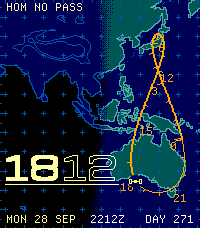
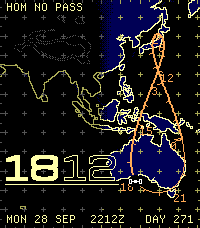
Eight more plates, listed like with like
Night Side, Infrared, Planetary, Moonlit, Vector, Graphite, Star Atlas
and Rodger Young: palettes only, on the treatments the watch already
has (day and night zones, the dot screen, airbrushed relief, height
tints), so neither app's code grows. They take the next numbers on the
watch; a chosen plate keeps its own.

The settings page and the study list plates in PLATE_ORDER: paper
charts, shaded relief, blue line drawings, tracking boards, mission
control's glass, single-ink displays, the Earth from space.

The core keeps 32 scenes, for the study's proof of every plate; a plate
of few inks may draw few colours.

diff --git a/src/plates.js b/src/plates.js
@@ -117,8 +117,79 @@ export const PLATES={
     water:inks(['#000000','#000000','#000000']),land:inks(['#000055','#000055','#000000']),coast:inks(['#55FFFF','#55AAAA','#005555']),
     contour:inks(['#005555','#005555','#005555']),shelf:inks(['#000055','#000055','#000055']),grid:inks(['#005555','#005555','#005555']),
     route:inks(['#FFFF55','#FFFF55','#FFFF55']),ink:inks(['#AAFFFF','#AAFFFF','#AAFFFF']),mark:inks(['#FFFFFF','#FFFFFF','#FFFFFF']),
-    space:hex('#000000'),spaceInk:hex('#FFAA55')}
+    space:hex('#000000'),spaceInk:hex('#FFAA55')},
+  // Space studies, after real imagery and the quieter end of film design;
+  // interpretations, not replicas.
+  // The Earth as photographed from orbit at night: by day a dim blue sea
+  // and teal land, at night both black with the coasts lit sodium gold, the
+  // limb of the dawn a thin blue line.
+  nightside:{name:'Night Side',note:'From orbit at night: dark Earth, coastlines lit gold',night:'zones',terminator:hex('#55AAFF'),
+    water:inks(['#000055','#000055','#000000']),land:inks(['#005555','#000055','#000000']),coast:inks(['#55AAAA','#FFAA55','#FFAA00']),
+    contour:inks(['#0055AA','#000055','#000055']),shelf:inks(['#0000AA','#000055','#000000']),grid:inks(['#0055AA','#000055','#000055']),
+    route:inks(['#FFFFFF','#FFFFFF','#FFFFFF']),ink:inks(['#FFFFFF','#FFFFFF','#FFFFAA']),mark:inks(['#FFFF55','#FFFF55','#FFFF55']),
+    space:hex('#000000'),spaceInk:hex('#FFFFFF')},
+  // The enhancement tables forecasters lay over infrared weather-satellite
+  // images: the land in a thermal ramp by height, violet lowland to pale
+  // yellow peaks, on a black sea; map lines in the imagery's cyan; night
+  // dims the ramp through a dark screen.
+  infrared:{name:'Infrared',note:'Weather-satellite infrared: a thermal ramp on a black sea',night:'screen',
+    tints:[[300,hex('#550055')],[1000,hex('#AA0055')],[2000,hex('#FF5500')],[3500,hex('#FFAA00')],[Infinity,hex('#FFFFAA')]],depths:[[SHELF_DEPTH,hex('#000055')],[-Infinity,hex('#000000')]],
+    water:inks(['#000000','#000000','#000000']),land:inks(['#550055','#550055','#550055']),coast:inks(['#55AAAA','#55AAAA','#55AAAA']),
+    contour:inks(['#000000','#000000','#000000']),shelf:inks(['#000055','#000055','#000055']),grid:inks(['#005555','#005555','#005555']),
+    route:inks(['#FFFFFF','#FFFFFF','#FFFFFF']),ink:inks(['#FFFFFF','#FFFFFF','#FFFFFF']),mark:inks(['#55FFFF','#55FFFF','#55FFFF']),
+    screen:hex('#000000'),space:hex('#000000'),spaceInk:hex('#55AAAA')},
+  // The airbrushed charts of the Moon and Mars from the Apollo and Viking
+  // years (USGS), drawn over the Earth: the land modelled in ochre and
+  // salmon by light from the northwest, the sea plain paper, a blue route.
+  planetary:{name:'Planetary',note:'USGS Mars and Moon charts: airbrushed ochre relief',night:'screen',shade:true,
+    tints:[[300,hex('#550000')],[500,hex('#AA5500')],[1000,hex('#FFAA55')],[2000,hex('#FFFFAA')],[Infinity,hex('#FFFFAA')]],
+    water:inks(['#FFFFFF','#FFFFFF','#FFFFFF']),land:inks(['#FFAA55','#FFAA55','#FFAA55']),coast:inks(['#AA5500','#AA5500','#AA5500']),
+    contour:inks(['#FFAA55','#FFAA55','#FFAA55']),shelf:inks(['#AAAAAA','#AAAAAA','#AAAAAA']),grid:inks(['#AA5500','#AA5500','#AA5500']),
+    route:inks(['#0055AA','#0055AA','#0055AA']),ink:inks(['#550000','#550000','#550000']),mark:inks(['#000000','#000000','#000000']),
+    screen:hex('#550000'),space:hex('#FFFFFF'),spaceInk:hex('#550000')},
+  // A vector display: no fills at all, the world as line work on black, the
+  // coast in one pale blue-white beam that dims at night.
+  vector:{name:'Vector',note:'Vector display: the world in line work alone',night:'zones',terminator:hex('#0055AA'),
+    water:inks(['#000000','#000000','#000000']),land:inks(['#000000','#000000','#000000']),coast:inks(['#AAFFFF','#55AAAA','#0055AA']),
+    contour:inks(['#0055AA','#005555','#000055']),shelf:inks(['#000055','#000055','#000000']),grid:inks(['#005555','#005555','#000055']),
+    route:inks(['#FFFFFF','#FFFFFF','#FFFFFF']),ink:inks(['#AAFFFF','#AAFFFF','#55AAAA']),mark:inks(['#FFFFFF','#FFFFFF','#FFFFFF']),
+    space:hex('#000000'),spaceInk:hex('#AAFFFF')},
+  // Spare grey instruments: charcoal land on black, everything in greys,
+  // the route the one white thing; night takes the land away.
+  graphite:{name:'Graphite',note:'Spare grey instruments: the route the one white line',night:'zones',
+    water:inks(['#000000','#000000','#000000']),land:inks(['#555555','#555555','#000000']),coast:inks(['#AAAAAA','#AAAAAA','#555555']),
+    contour:inks(['#000000','#000000','#555555']),shelf:inks(['#555555','#555555','#000000']),grid:inks(['#555555','#555555','#555555']),
+    route:inks(['#FFFFFF','#FFFFFF','#FFFFFF']),ink:inks(['#AAAAAA','#AAAAAA','#AAAAAA']),mark:inks(['#FFFFFF','#FFFFFF','#FFFFFF']),
+    space:hex('#000000'),spaceInk:hex('#AAAAAA')},
+  // The engraved star atlases navigators used: deep navy paper, cream
+  // coastlines, stippled contours, a pale gold route; night deepens the navy.
+  staratlas:{name:'Star Atlas',note:'Engraved star atlas: navy paper, cream line, gold route',night:'zones',dots:true,
+    water:inks(['#000000','#000000','#000000']),land:inks(['#000055','#000055','#000000']),coast:inks(['#FFFFAA','#FFFFAA','#AAAA55']),
+    contour:inks(['#AAAA55','#555555','#555555']),shelf:inks(['#000055','#000055','#000055']),grid:inks(['#AAAA55','#555555','#555555']),
+    route:inks(['#FFAA55','#FFAA55','#FFAA55']),ink:inks(['#FFFFAA','#FFFFAA','#FFFFAA']),mark:inks(['#FFFFFF','#FFFFFF','#FFFFFF']),
+    space:hex('#000055'),spaceInk:hex('#FFFFAA')},
+  // The airbrushed relief by moonlight: the land modelled in silver and
+  // slate from the northwest on a black sea, a lamp-amber route.
+  moonlit:{name:'Moonlit',note:'Shaded relief by moonlight: silver and slate on black',night:'screen',shade:true,
+    tints:[[300,hex('#000000')],[500,hex('#000055')],[1000,hex('#555555')],[2000,hex('#AAAAAA')],[Infinity,hex('#AAAAAA')]],
+    water:inks(['#000000','#000000','#000000']),land:inks(['#555555','#555555','#555555']),coast:inks(['#AAAAAA','#AAAAAA','#AAAAAA']),
+    contour:inks(['#555555','#555555','#555555']),shelf:inks(['#000055','#000055','#000055']),grid:inks(['#555555','#555555','#555555']),
+    route:inks(['#FFAA55','#FFAA55','#FFAA55']),ink:inks(['#FFFFFF','#FFFFFF','#FFFFFF']),mark:inks(['#FFFF55','#FFFF55','#FFFF55']),
+    screen:hex('#000000'),space:hex('#000000'),spaceInk:hex('#AAAAAA')},
+  // A fleet's tactical chart: khaki ground on a gunmetal sea, black line
+  // work, the line of advance in red.
+  rodgeryoung:{name:'Rodger Young',note:'Fleet tactical chart: khaki ground, gunmetal sea, a red line',night:'zones',terminator:hex('#FFFFFF'),
+    water:inks(['#555555','#555555','#000000']),land:inks(['#AAAA55','#555500','#555500']),coast:inks(['#000000','#000000','#AAAA55']),
+    contour:inks(['#555500','#000000','#000000']),shelf:inks(['#000000','#000000','#555555']),grid:inks(['#000000','#000000','#555555']),
+    route:inks(['#FF0000','#FF0000','#FF0000']),ink:inks(['#000000','#000000','#FFFFFF']),mark:inks(['#FFFFFF','#FFFFFF','#FFFFFF']),
+    space:hex('#000000'),spaceInk:hex('#FFFFFF')}
 };
+// The order the plates are offered in, like with like: paper charts,
+// shaded relief, blue line drawings, tracking boards, mission control's
+// glass, single-ink displays, the Earth from space. (PLATES' own order is
+// their number on the watch, and only grows.)
+export const PLATE_ORDER=['enroute','sectional','hypsometric','survey','sunlight','airbrush','planetary','moonlit','blueprint','staratlas',
+  'trackingboard','rodgeryoung','console','operations','dotmatrix','crt','amber','red','vector','nightside','infrared','graphite','odyssey'];
 // Contours in meters; the lowest is dotted, as an intermediate contour.
 export const CONTOURS=[500,1000,2000,3000,4000,5000],SHELF=-200;
 // Acquisition circle: ground range at which a 410 km orbit rises 5 degrees

diff --git a/src/enroute-app.js b/src/enroute-app.js
@@ -1,4 +1,4 @@
-import {PLATES,FIGURE_SETS,W,H} from './plates.js';
+import {PLATES,PLATE_ORDER,FIGURE_SETS,W,H} from './plates.js';
 import {loadCore,CoreRenderer} from './core.js';
 import {MINUTE} from './ephemeris.js';
 import {clockParts} from './render.js';
@@ -28,7 +28,7 @@ function render(){
   const r=main.render(state);$('enroute-watch').getContext('2d').putImageData(new ImageData(r.rgba,W,H),0,0);
   // The proofs: the same hour on every plate, each built by the core in
   // turn (about 50 ms each), the chosen plate's last so it stays built.
-  for(const plate of Object.keys(PLATES))if(plate!==state.plate)paint(proofs[plate],main.render({...state,plate}).buf);
+  for(const plate of PLATE_ORDER)if(plate!==state.plate)paint(proofs[plate],main.render({...state,plate}).buf);
   paint(proofs[state.plate],main.render(state).buf);
   $('orbit-span').classList.toggle('muted',viewOf(state.body)!=='day');document.querySelectorAll('[data-span]').forEach(b=>b.disabled=viewOf(state.body)!=='day');
   $('time-scale').classList.toggle('muted',viewOf(state.body)!=='world'||state.projection==='fuller');
@@ -58,7 +58,7 @@ function render(){
   const colors=new Set();for(let i=0;i<r.buf.length;i+=3)colors.add((r.buf[i]<<16)|(r.buf[i+1]<<8)|r.buf[i+2]);
   $('enroute-diagnostics').textContent=`${colors.size} native colors in this frame. ${main.stats.geometryBuilds} chart builds; ${main.stats.renders} renders. No idle redraws.`;
 }
-for(const [key,pal] of Object.entries(PLATES)){
+for(const [key,pal] of PLATE_ORDER.map(k=>[k,PLATES[k]])){
   const b=document.createElement('button');b.dataset.plate=key;
   const row=document.createElement('span');row.className='swatch-row';
   for(const color of [pal.land[0],pal.water[0],pal.contour[0],pal.ink[0],pal.route[0]]){const i=document.createElement('i');i.style.backgroundColor=`rgb(${color.join(',')})`;row.append(i);}

diff --git a/native/pkjs/main.js b/native/pkjs/main.js
@@ -28,7 +28,7 @@
 // Satellites' element sets are fetched from CelesTrak at most once every two
 // hours each (as CelesTrak asks) and kept, under tle-<catalog number>.
 import {HOMES} from '../../src/home.js';
-import {PLATES,FIGURE_SETS} from '../../src/plates.js';
+import {PLATES,PLATE_ORDER,FIGURE_SETS} from '../../src/plates.js';
 import {registerElements,elementsFor,viewOf,plotOf,periodOf,CATALOG,GROUPS,catalogEntry,bodyId,addSatellite,forgetSatellites,addedSatellites} from '../../src/satellites.js';
 import {chartOf,faceFor,VIEW_CODES} from '../../src/settings-rules.js';
 import {segmentFor,encodeSegment,DAY,satelliteSegmentFor,encodeSatelliteSegment,satelliteSpan} from '../../src/segments.js';
@@ -415,7 +415,7 @@ Pebble.addEventListener('showConfiguration',function(){
         CATALOG.map(function(c){var b=bodyId(c.norad);return [b,c.code+' · '+c.name,c.note,viewOf(b),c.period,c.group,plotOf(b)];})),
       groups:GROUPS,sats:addedSatellites().map(kept),
       elementsUrl:setting('elementsUrl','https://celestrak.org/NORAD/elements/gp.php'),
-      plates:Object.keys(PLATES).map(function(k){return [k,PLATES[k].name,PLATES[k].note];}),figureSets:FIGURE_SETS,preset:preset?preset.name:null,position:position};
+      plates:PLATE_ORDER.map(function(k){return [k,PLATES[k].name,PLATES[k].note];}),figureSets:FIGURE_SETS,preset:preset?preset.name:null,position:position};
     // The settings go inside a script element: no '<' may close it.
     // (Both in one pass: an event's title may spell either mark.)
     var page=CONFIG_PAGE.replace(/__CONFIG__|__PREVIEW__|__RULES__/g,function(mark){return mark==='__RULES__'?RULES_TEXT:JSON.stringify(mark==='__CONFIG__'?config:previewInputs()).replace(/</g,'\\u003c').replace(/\u2028/g,'\\u2028').replace(/\u2029/g,'\\u2029');});

diff --git a/src/core.js b/src/core.js
@@ -11,7 +11,7 @@ import network from '../data/tracking-stations.json' with {type:'json'};
 import {localDate} from './chart-text.js';
 import {SCALE} from './plates.js';
 
-export const W=200,H=228,SLOTS=16;
+export const W=200,H=228,SLOTS=32;
 // core_layout's order (native/host/core_api.c).
 const LAYOUT=['scene_size','point_size','minute_size','flags','body','view','forward','hour_start','heavy','fuller','zulu_x','zulu_baseline','top_x','top_baseline','height_right','height_baseline',
   'tape_x0','tape_x1','tape_baseline','tape_lo','tape_hi','home_x','home_y','home_box','mark_count','callout_left','callout_top','callout_bottom','hour_text','numerals',

diff --git a/native/host/core_api.h b/native/host/core_api.h
@@ -19,7 +19,7 @@ void core_source(int kind,const uint8_t *data,size_t length);
 // Builds the hour from the input text (src/chart-input.js: key value
 // lines, segments as hex) into one of CORE_SLOTS scenes, freeing what that
 // slot held. 1 on success.
-#define CORE_SLOTS 16
+#define CORE_SLOTS 32
 int core_build(const char *text,size_t length,int slot);
 // Why the last build failed.
 const char *core_failure(void);

diff --git a/docs/STORE-LISTING-FULLER.md b/docs/STORE-LISTING-FULLER.md
@@ -17,6 +17,6 @@ The Earth unfolded as Buckminster Fuller unfolded it, rolled along the route. Th
 
 The hour is set along the route as on an aeronautical chart: a compass rose turned to true north, the next hour's reporting point, minute graduations and the hour's figures. The tracking stations that can hear the satellite this hour are marked with their circles, and home has its own.
 
-Contour relief, the continental shelf and the coastline come from public-domain elevation data, pre-projected onto every face of the icosahedron and stored on the watch, and the calculated Sun brings the night across the net. Fifteen plates, from paper charts and airbrushed relief to blueprint blue, a dot-matrix wall, green or amber screens and 2001's HAL; including Tracking Board, Soviet Survey Sheet and Operations. The hour figure can carry the minutes; satellites can show estimated sunlight or Earth shadow. Events mark the route.
+Contour relief, the continental shelf and the coastline come from public-domain elevation data, pre-projected onto every face of the icosahedron and stored on the watch, and the calculated Sun brings the night across the net. Twenty-three plates: paper charts, airbrushed relief, blueprints and star atlases, mission-control glass, phosphor screens, and the Earth from orbit at night or in infrared. The hour figure can carry the minutes; satellites can show estimated sunlight or Earth shadow. Events mark the route.
 
 Orbits come from CelesTrak through the phone, a few days ahead, so the face keeps going without it. Requires Pebble Time 2. Not for navigation. Source code is on GitHub.

diff --git a/releases/v0.3.2.md b/releases/v0.3.2.md
@@ -1,0 +1,13 @@
+# Groundtrack 0.3.2
+
+Eight more plates, and the plates in an order that makes sense.
+
+- **Night Side.** The Earth from orbit at night: by day a dim blue sea and teal land, at night both black with the coastlines lit gold.
+- **Infrared.** The colour tables forecasters lay over weather-satellite infrared: violet lowland through orange to pale-yellow peaks, on a black sea.
+- **Planetary.** The airbrushed Mars and Moon charts of the Apollo and Viking years, drawn over the Earth: ochre and salmon relief, a blue route.
+- **Moonlit.** Airbrushed relief by moonlight: silver and slate on black. The dark companion to Airbrush and Planetary.
+- **Vector.** No fills at all: the world in line work, one pale beam on black.
+- **Graphite.** Spare grey instruments, the route the one white line.
+- **Star Atlas.** Navy paper, cream coastlines, a pale gold route, after the engraved star atlases navigators used.
+- **Rodger Young.** A fleet's tactical chart: khaki ground, a gunmetal sea, the line of advance in red.
+- **The plates are listed like with like:** paper charts, shaded relief, blue line drawings, tracking boards, mission control's glass, single-ink displays, the Earth from space. A plate you had chosen stays chosen.

diff --git a/docs/STORE-LISTING.md b/docs/STORE-LISTING.md
@@ -25,7 +25,7 @@ Contour relief, the continental shelf and coastlines come from public-domain ele
 
 A home station gives the day's sunrise and sunset, or the satellite's next pass overhead. The margins carry the local date, Zulu time and the day of the year.
 
-Fifteen plates, from paper charts and airbrushed relief to blueprint blue, a dot-matrix wall, green or amber screens and 2001's HAL. Four sets of figures. New Tracking Board, Soviet Survey Sheet and Operations styles. The hour figure can carry the minutes; satellites can show sunlight or Earth shadow.
+Twenty-three plates: paper charts, airbrushed relief, blueprints and star atlases, mission-control glass, phosphor screens, and the Earth from orbit at night or in infrared. Four sets of figures. The hour figure can carry the minutes; satellites can show sunlight or Earth shadow.
 
 The watch builds its charts and repaints what moves each minute. The phone sends the Sun and Moon weeks ahead and satellite orbits days ahead, so it keeps going without the phone.
 
